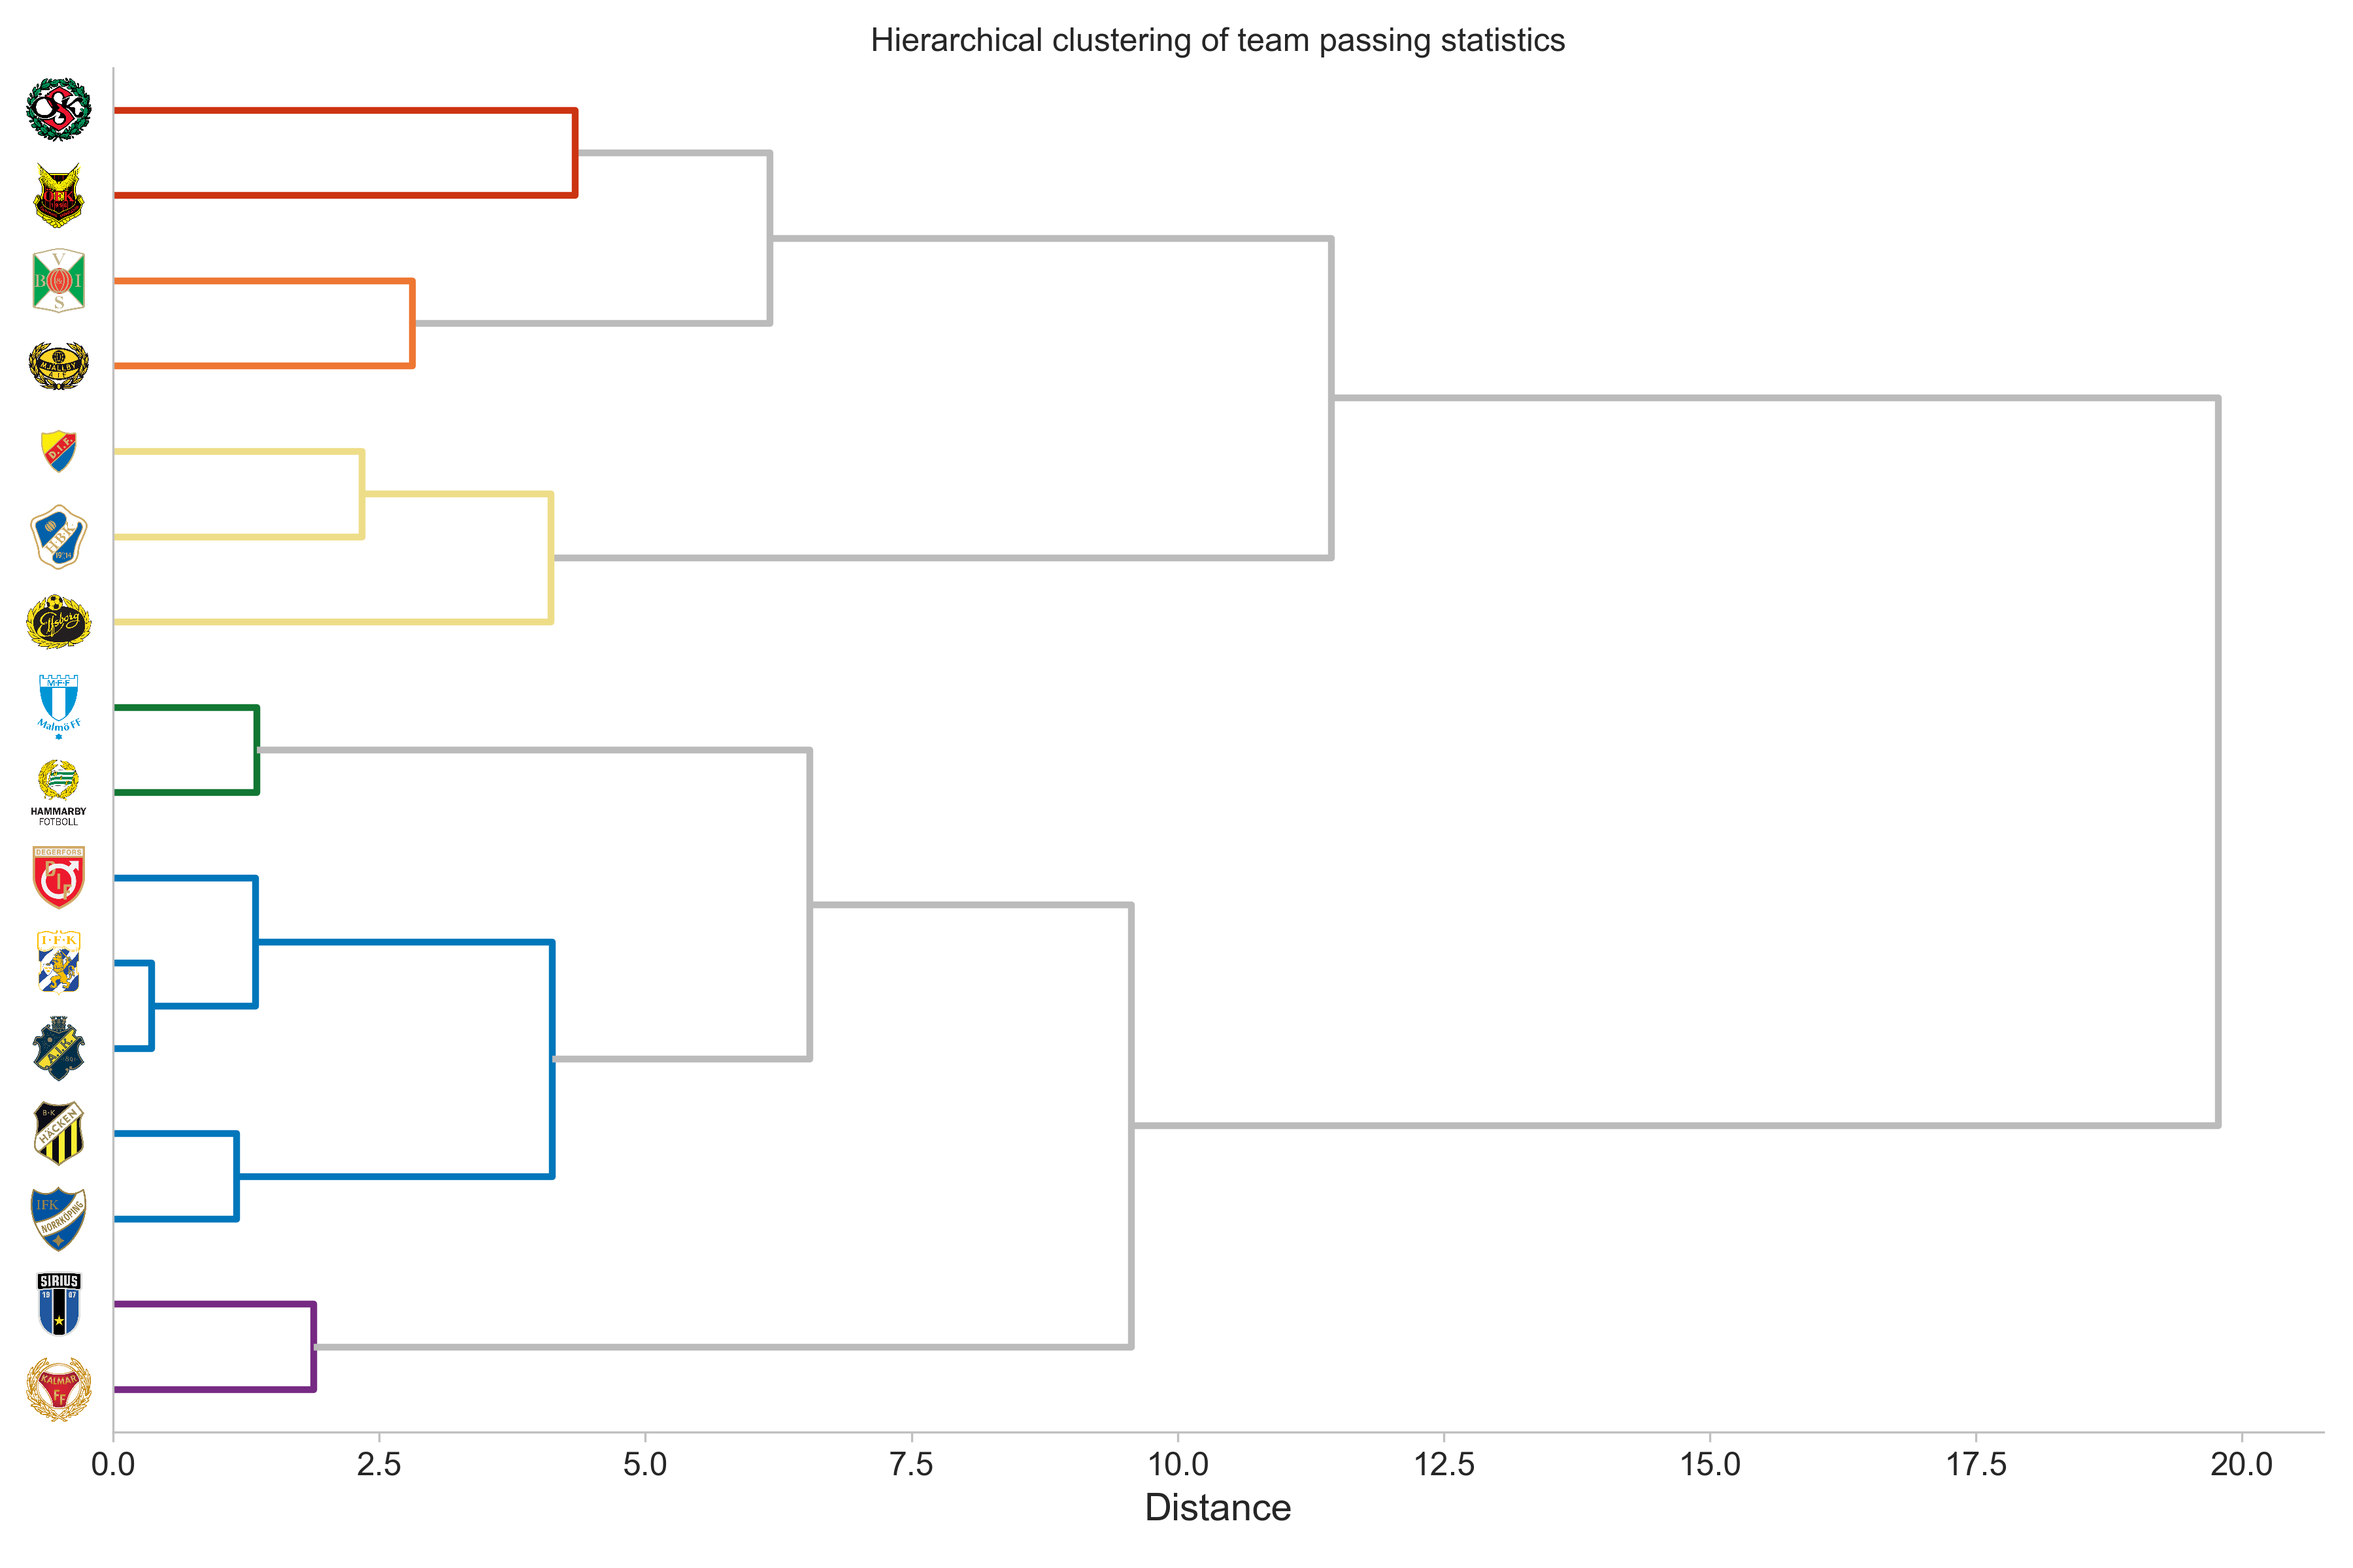
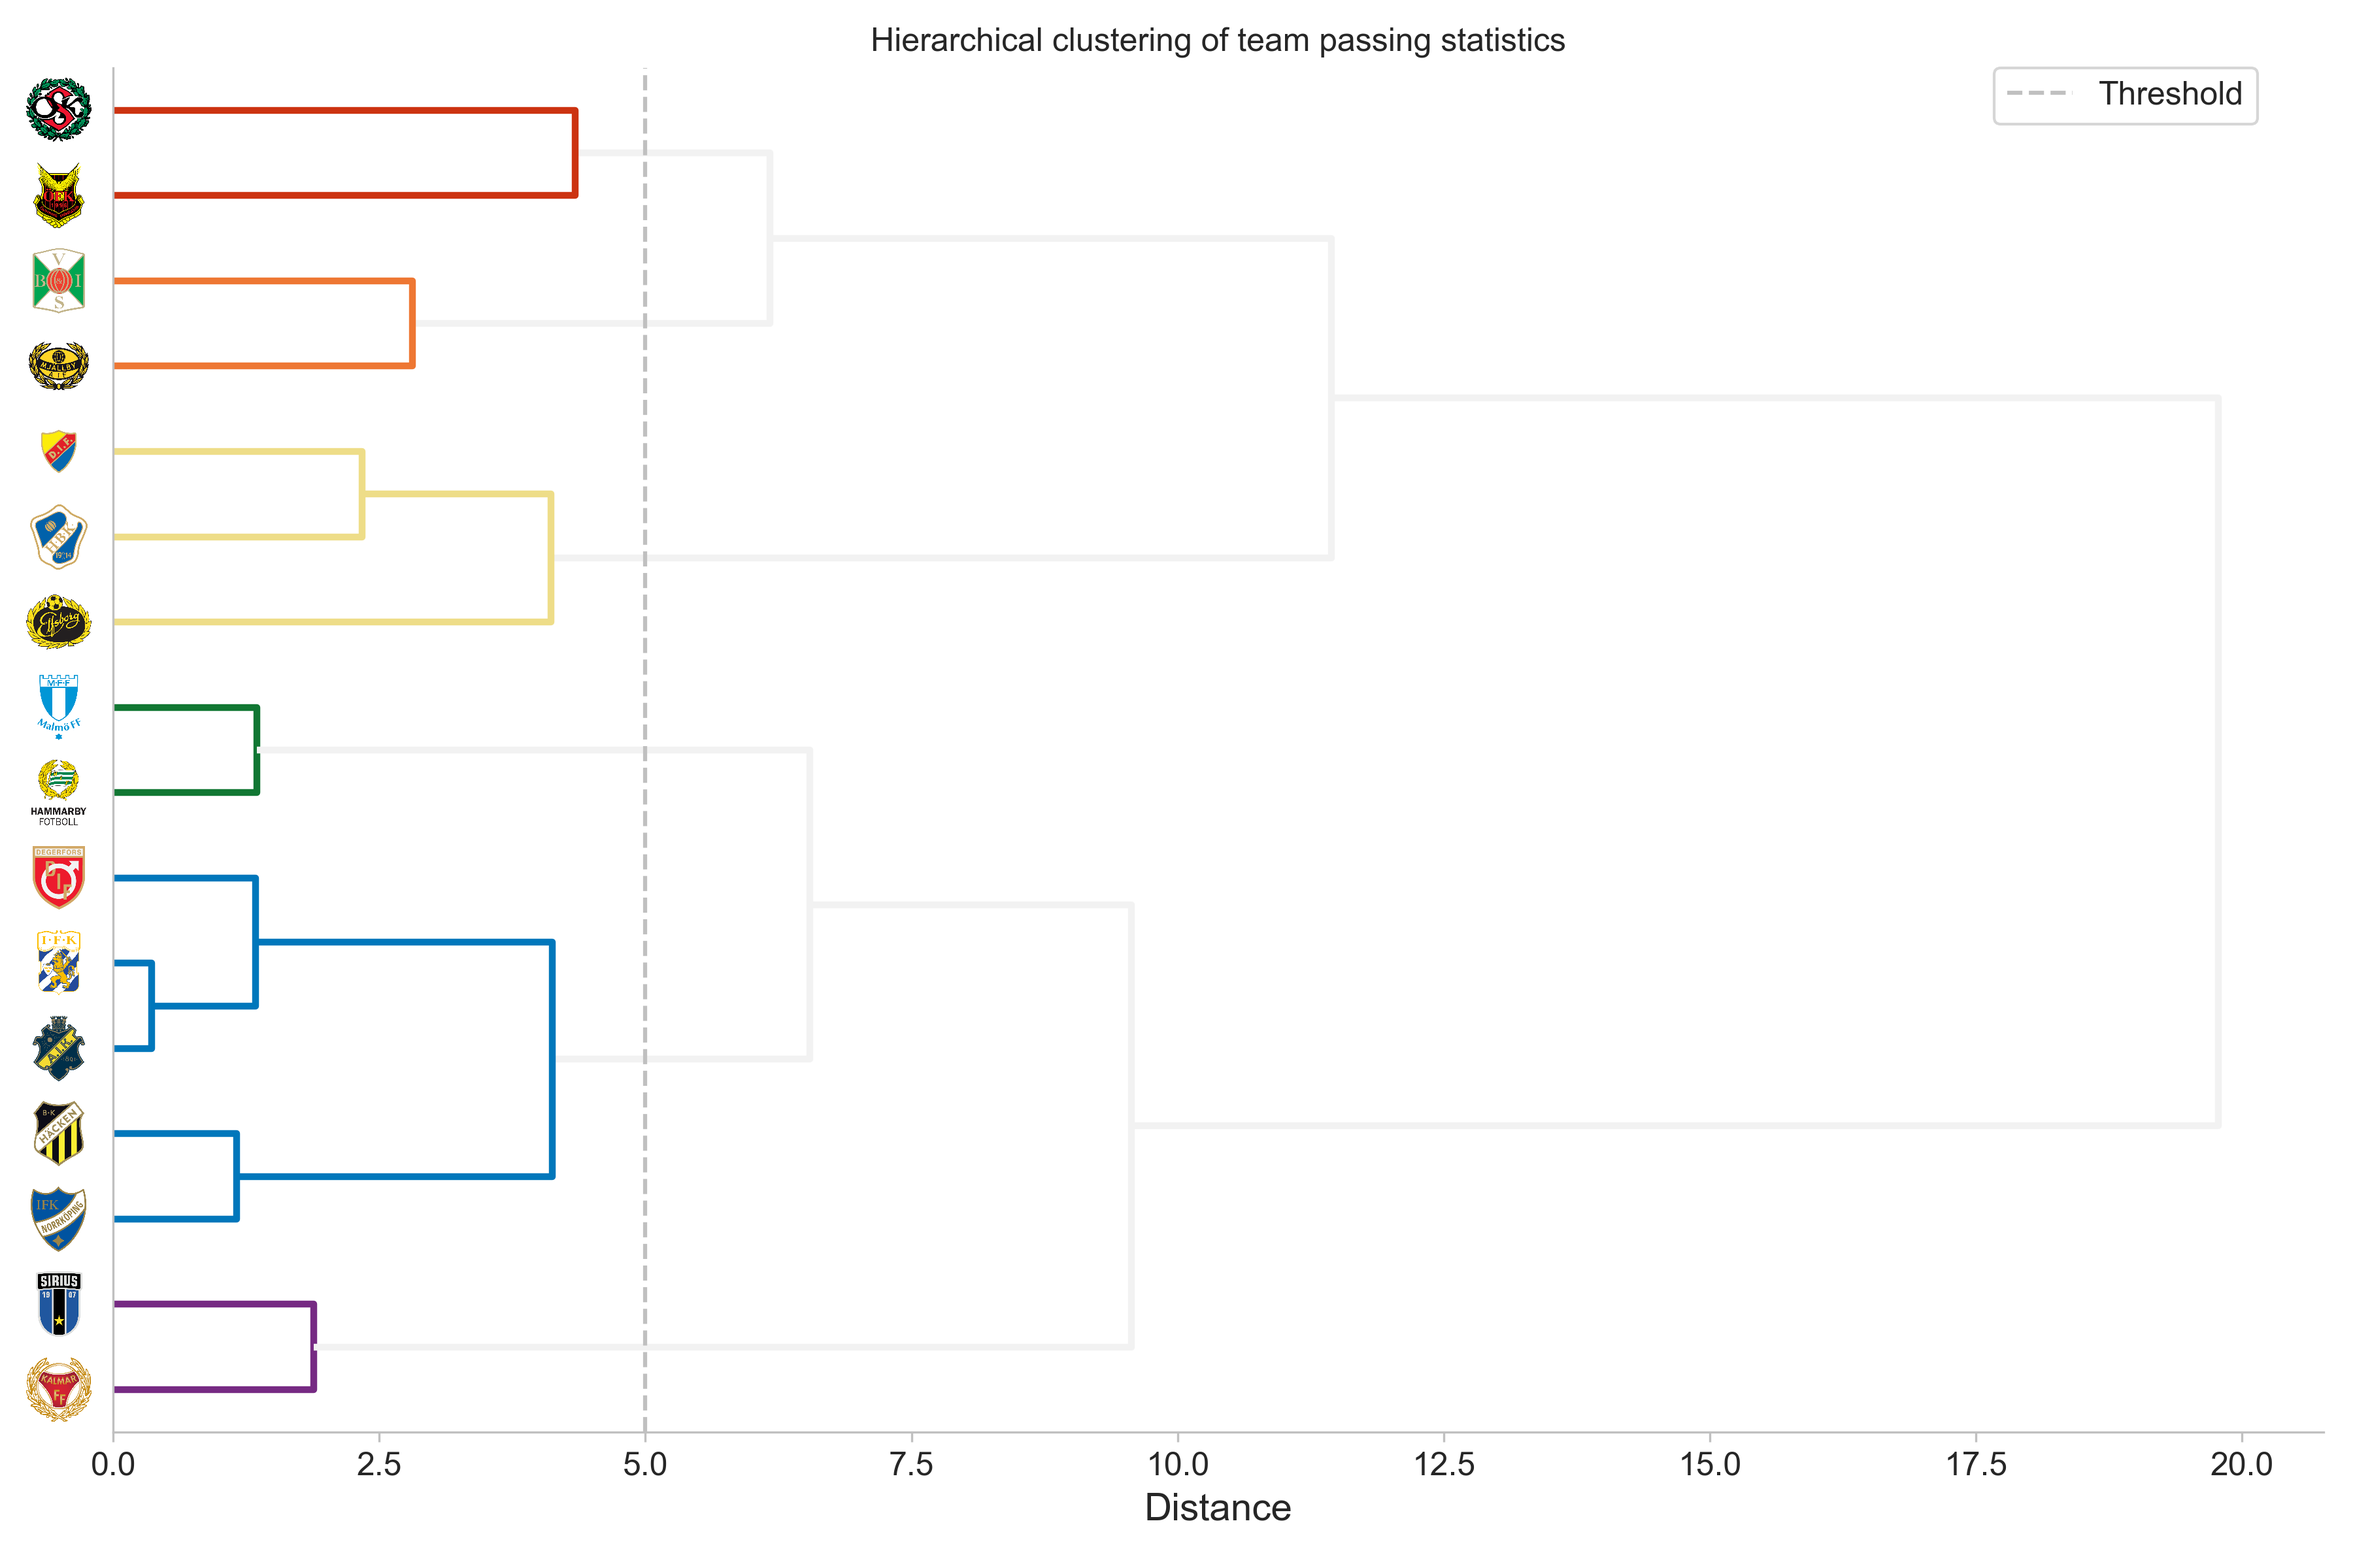
Updated figures

diff --git a/Scripts/clustering.py b/Scripts/clustering.py
@@ -649,7 +649,7 @@ def color_cluster(linkage: np.ndarray, team_passing: DataFrame,
                                          6, 1, 9, 10, 15, 16])]).T
     
     # Initialize the link_colors list with gray
-    link_colors = ["#BBBBBB"] * (2 * n - 1)
+    link_colors = ["#F2F2F2"] * (2 * n - 1)
 
     # Loop over all unique clusters that have been formed
     for cluster in np.unique(team_clusters[:, 1]):
@@ -939,6 +939,13 @@ def fit_team_cluster(pca_team_data: DataFrame,
                               above_threshold_color="#0077BB",
                               link_color_func=link_color_func)
     
+    # Draw vertical line for threshold if specified
+    if threshold is not None:
+        ax.vlines([threshold], ymin=0, 
+                  ymax=np.max([i.get_position()[1] for i in ax.get_yticklabels()])+5,
+                  colors=["#C0C0C0"], linestyles="dashed", label="Threshold")
+        plt.legend(bbox_to_anchor=(0.97, 1.0), loc="upper right", borderaxespad=0,
+                   fontsize=12)
     
     # Specify axis labels
     ax.set_xlabel("Distance", fontsize=14)

diff --git a/Scripts/passingStyles.py b/Scripts/passingStyles.py
@@ -65,8 +65,8 @@ if __name__ == "__main__":
     team_linkage = fit_team_cluster(pca_team_data, team_passing, plot_iterative_tree=True)
     
     # Create a hierarchical clustering of teams for a subset
-    fit_team_cluster(pca_team_data, team_passing, plot_iterative_tree=True,
-                     threshold=5)
+    _ = fit_team_cluster(pca_team_data, team_passing, plot_iterative_tree=True,
+                         threshold=5)
     
     # Plot a heatmap of passing differences between possession adjusted and raw counts
     team_passing_heatmap(team_passing, team_passing_raw, linkage=team_linkage,
